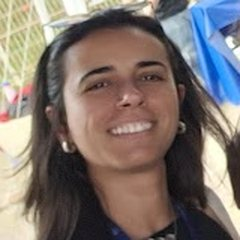
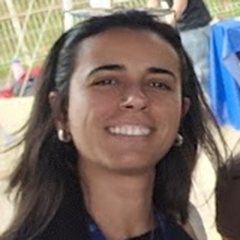
Straighten team photos; add Brenda's photo
Claude-Session: https://claude.ai/code/session_015wKE7nkeskDu6pWtSPDbLt

diff --git a/pt/index.html b/pt/index.html
@@ -218,7 +218,7 @@ footer .wrap{padding-block:28px;font-size:13px;color:var(--muted);display:flex;j
   <div class="team">
     <div class="member"><img class="avatar" src="../photos/team/barbbara.jpg" alt="" loading="lazy"><div><strong>Dr. Barbbara Rocha</strong><span>Pós-doutoranda · espectros de tamanho e invasões biológicas</span></div></div>
     <div class="member"><img class="avatar" src="../photos/team/pedro.jpg" alt="" loading="lazy"><div><strong>Pedro Guerra</strong><span>Doutorando · teias tróficas e variação intraespecífica</span></div></div>
-    <div class="member"><div class="avatar" aria-hidden="true">BA</div><div><strong>Brenda Almeida</strong><span>Doutoranda · biodiversidade de cavernas e análises de paisagem</span></div></div>
+    <div class="member"><img class="avatar" src="../photos/team/brenda.jpg" alt="" loading="lazy"><div><strong>Brenda Almeida</strong><span>Doutoranda · biodiversidade de cavernas e análises de paisagem</span></div></div>
     <div class="member"><img class="avatar" src="../photos/team/fred.jpg" alt="" loading="lazy"><div><strong>Frederico Zanatta</strong><span>Mestrando · especialização individual</span></div></div>
     <div class="member"><img class="avatar" src="../photos/team/julia.jpg" alt="" loading="lazy"><div><strong>Julia Maria Braga</strong><span>Mestranda · modelos de espectro de tamanho</span></div></div>
     <div class="member"><img class="avatar" src="../photos/team/nicole.jpg" alt="" loading="lazy"><div><strong>Nicole Maiochi</strong><span>Mestranda · interações tróficas e teias tróficas</span></div></div>

diff --git a/index.html b/index.html
@@ -218,7 +218,7 @@ footer .wrap{padding-block:28px;font-size:13px;color:var(--muted);display:flex;j
   <div class="team">
     <div class="member"><img class="avatar" src="photos/team/barbbara.jpg" alt="" loading="lazy"><div><strong>Dr. Barbbara Rocha</strong><span>Postdoc · size spectra &amp; biological invasions</span></div></div>
     <div class="member"><img class="avatar" src="photos/team/pedro.jpg" alt="" loading="lazy"><div><strong>Pedro Guerra</strong><span>PhD student · food webs &amp; intraspecific variation</span></div></div>
-    <div class="member"><div class="avatar" aria-hidden="true">BA</div><div><strong>Brenda Almeida</strong><span>PhD student · cave biodiversity &amp; landscape analyses</span></div></div>
+    <div class="member"><img class="avatar" src="photos/team/brenda.jpg" alt="" loading="lazy"><div><strong>Brenda Almeida</strong><span>PhD student · cave biodiversity &amp; landscape analyses</span></div></div>
     <div class="member"><img class="avatar" src="photos/team/fred.jpg" alt="" loading="lazy"><div><strong>Frederico Zanatta</strong><span>MSc student · individual specialization</span></div></div>
     <div class="member"><img class="avatar" src="photos/team/julia.jpg" alt="" loading="lazy"><div><strong>Julia Maria Braga</strong><span>MSc student · size-spectrum models</span></div></div>
     <div class="member"><img class="avatar" src="photos/team/nicole.jpg" alt="" loading="lazy"><div><strong>Nicole Maiochi</strong><span>MSc student · trophic interactions &amp; food webs</span></div></div>
